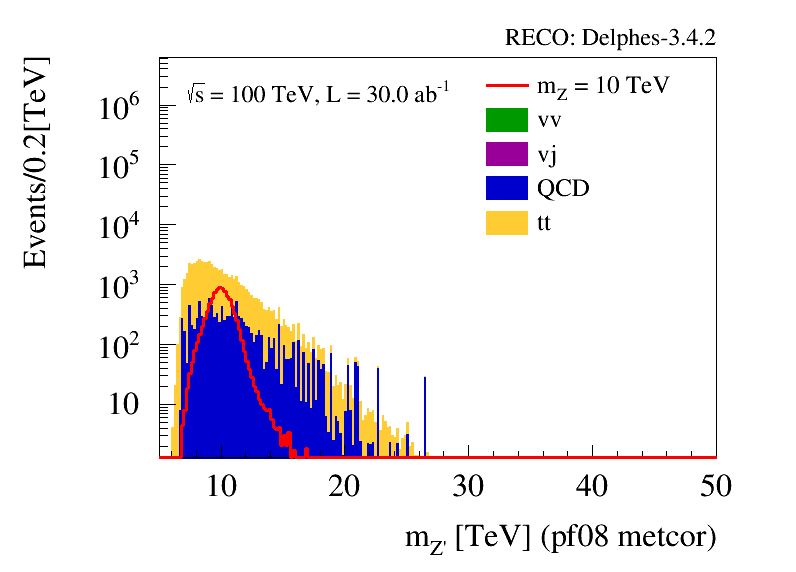
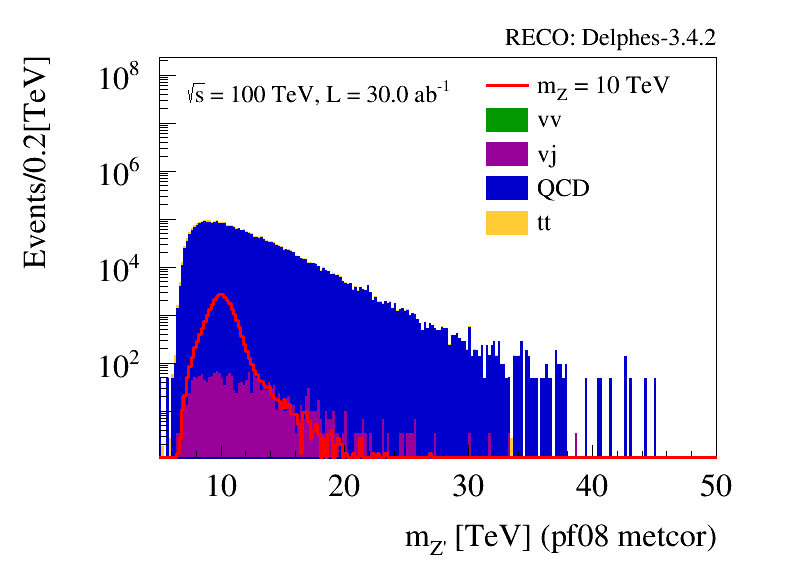
modify Zptt plot labelling

diff --git a/main.tex b/main.tex
@@ -174,12 +174,21 @@ di-lepton invariant mass $\mll$ (bottom right) for the CMS  detector}
 Backgrounds: QCD, ttbar, single top, V+jets, VV. 
 
 \begin{figure}[!htb]\centering
-\includegraphics[width=0.495\textwidth]{Fig/Zptt/cut/Mj1j2_pf08_MetCorr_sel2_nostack_log_DirectTag.png}
-\includegraphics[width=0.495\textwidth]{Fig/Zptt/tagger/Mj1j2_pf08_MetCorr_sel2_nostack_log_DirectTag.png}
 \includegraphics[width=0.495\textwidth]{Fig/Zptt/cut/Mj1j2_pf08_MetCorr_sel2_nostack_log.png}
 \includegraphics[width=0.495\textwidth]{Fig/Zptt/tagger/Mj1j2_pf08_MetCorr_sel2_nostack_log.png}
-\caption{Zprime mass after the full selection for anaylsis cut-based (left) and anti-QCD tagger based (right), and for the two b-tagging scenarios : direct b-tag (top) and Tag Rate Function (bottom). The generated mass of the signal sample is 10 $\TeV$.}
+\includegraphics[width=0.495\textwidth]{Fig/Zptt/cut/Mj1j2_pf08_MetCorr_sel2_nostack_log_TRFtag.png}
+\includegraphics[width=0.495\textwidth]{Fig/Zptt/tagger/Mj1j2_pf08_MetCorr_sel2_nostack_log_TRFtag.png}
+\caption{Zprime mass after the full selection for anaylsis cut-based (left) and anti-QCD tagger based (right), and for the two b-tagging scenarios : direct b-tag (top) and Tag Rate Function (bottom) in $\Zp \rightarrow \ttbar$ analysis. The generated mass of the signal sample is 10 $\TeV$.}
 \label{fig:Zptt_mass_sel_final}
+\end{figure}
+
+\begin{figure}[!htb]\centering
+\includegraphics[width=0.495\textwidth]{Fig/RSGww/cut/lim_RSGraviton_ww_fcc_v02.png}
+\includegraphics[width=0.495\textwidth]{Fig/RSGww/cut/DiscoveryPotential_ww_rootStyle.png}
+\includegraphics[width=0.495\textwidth]{Fig/RSGww/tagger/lim_RSGraviton_ww_fcc_v02.png}
+\includegraphics[width=0.495\textwidth]{Fig/RSGww/tagger/DiscoveryPotential_ww_rootStyle.png}
+\caption{Limit (left) and discovery potential for analysis cut-based (top), anti-QCD tagger-based (medium) and anti-QCD tagger-based with TRF b-tagging (bottom) in $\Zp \rightarrow \ttbar$ analysis.}
+\label{fig:Zptt_limit}
 \end{figure}
 
 \subsection{$G \rightarrow WW$}
